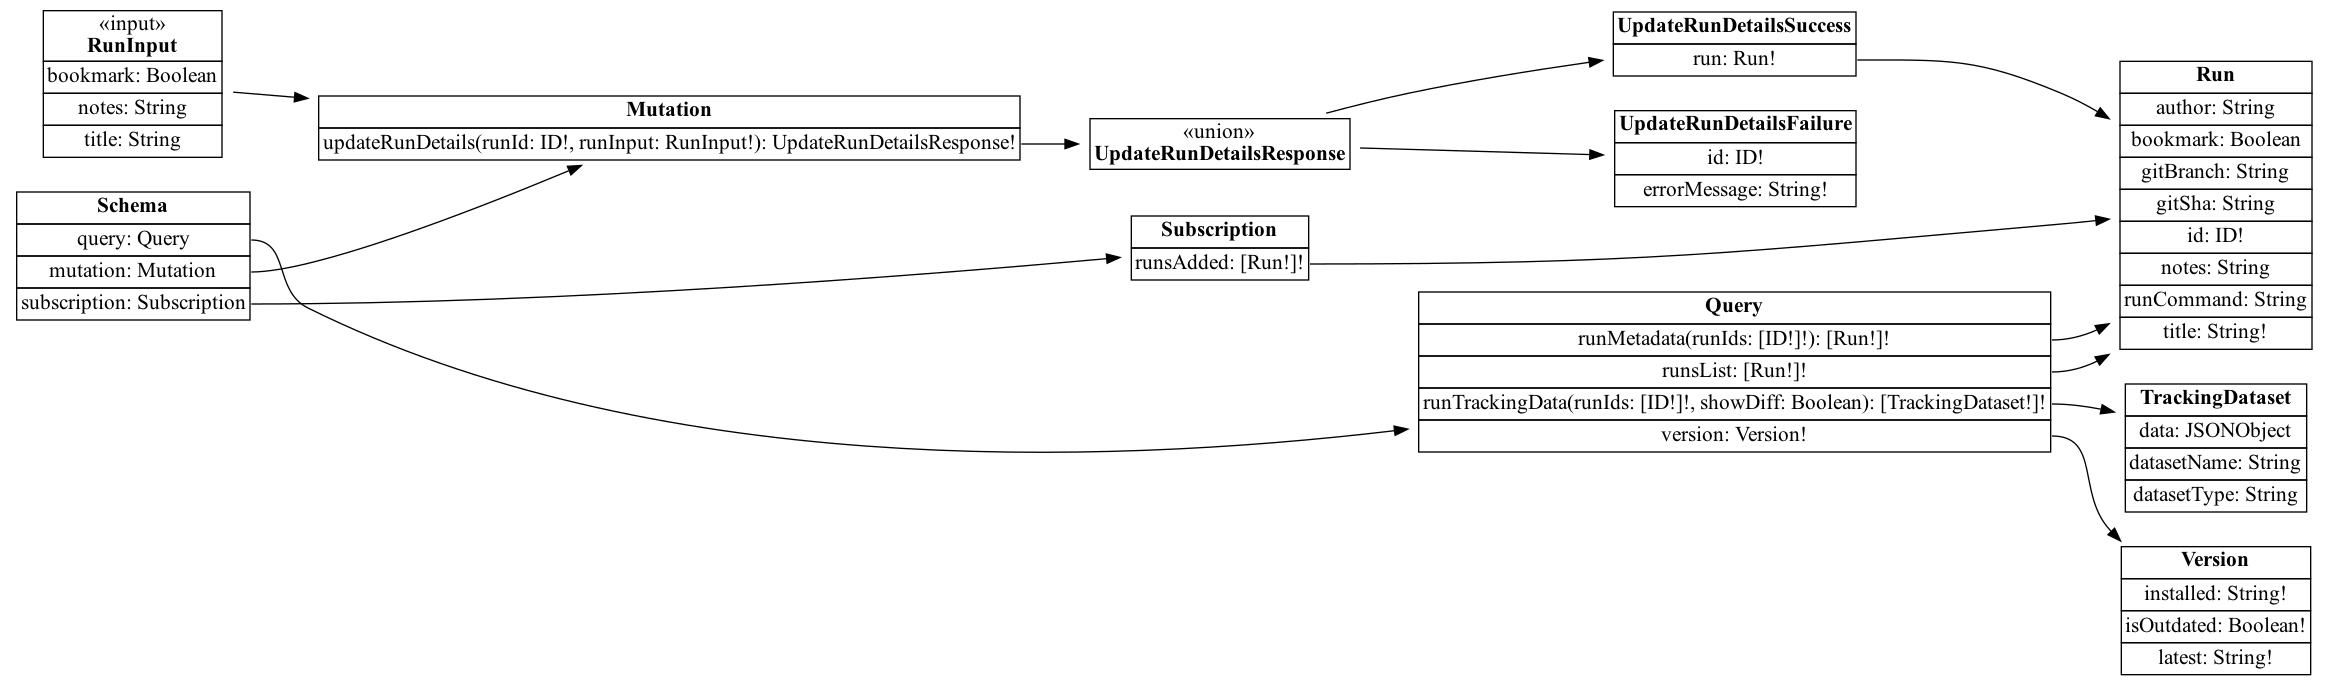
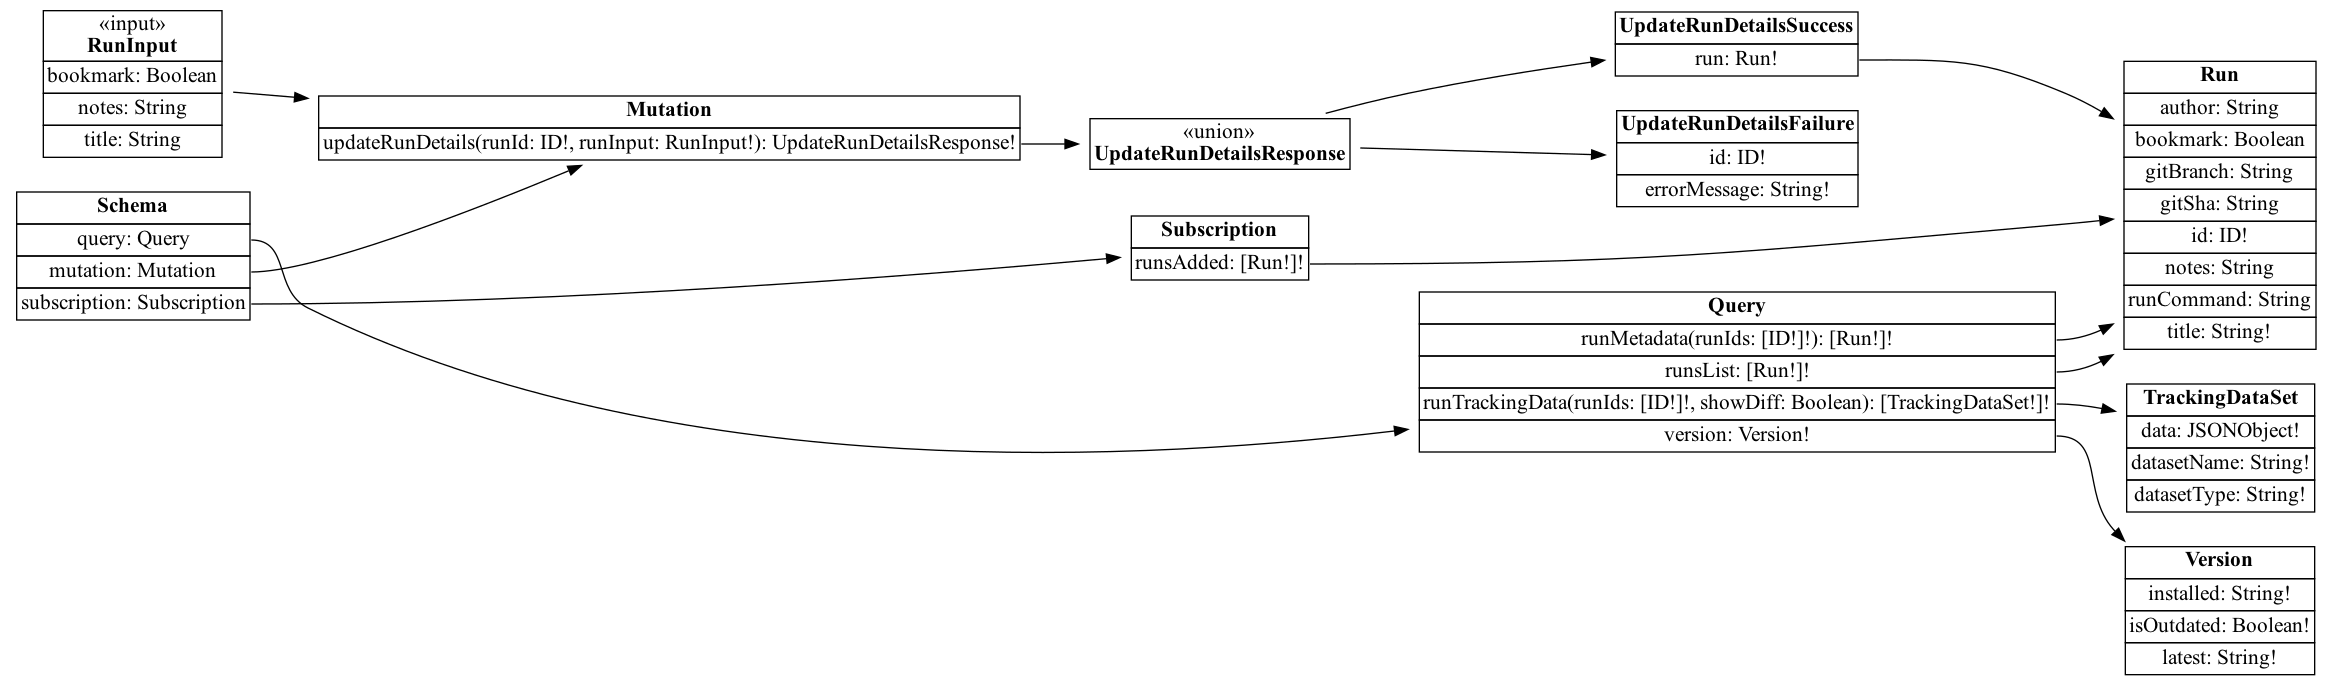
Rename to DataSet

diff --git a/src/apollo/mocks.js b/src/apollo/mocks.js
@@ -15,7 +15,7 @@ export const RunMock = Factory.define(({ sequence }) => {
   };
 });
 
-const TrackingDatasetMock = Factory.define(() => {
+const TrackingDataSetMock = Factory.define(() => {
   return {
     runId: faker.random.words(3),
     value: faker.datatype.number(),
@@ -27,7 +27,7 @@ export const TrackingDataMock = Factory.define(() => {
     datasetName: faker.random.words(2),
     datasetType: faker.random.words(2),
     data: {
-      [faker.random.words(1)]: TrackingDatasetMock.buildList(1),
+      [faker.random.words(1)]: TrackingDataSetMock.buildList(1),
     },
   };
 });

diff --git a/src/apollo/schema.js b/src/apollo/schema.js
@@ -23,7 +23,7 @@ const typeDefs = gql`
     runTrackingData(
       runIds: [ID!]!
       showDiff: Boolean = false
-    ): [TrackingDataset!]!
+    ): [TrackingDataSet!]!
   }
 
   type Run {
@@ -43,7 +43,7 @@ const typeDefs = gql`
     notes: String = null
   }
 
-  type TrackingDataset {
+  type TrackingDataSet {
     datasetName: String
     datasetType: String
     data: JSONObject

diff --git a/package/tests/test_api/test_graphql/test_schema.py b/package/tests/test_api/test_graphql/test_schema.py
@@ -10,7 +10,7 @@ from strawberry.printer import print_schema
 
 from kedro_viz.api.graphql import (
     JSONObject,
-    TrackingDataset,
+    TrackingDataSet,
     get_run_tracking_data,
     schema,
 )
@@ -24,7 +24,7 @@ class TestTrackingData:
             (
                 True,
                 [
-                    TrackingDataset(
+                    TrackingDataSet(
                         datasetName="new_metrics",
                         datasetType="kedro.extras.datasets.tracking.metrics_dataset.MetricsDataSet",
                         data=JSONObject(
@@ -50,7 +50,7 @@ class TestTrackingData:
             (
                 False,
                 [
-                    TrackingDataset(
+                    TrackingDataSet(
                         datasetName="new_metrics",
                         datasetType="kedro.extras.datasets.tracking.metrics_dataset.MetricsDataSet",
                         data=JSONObject(
@@ -88,7 +88,7 @@ class TestTrackingData:
             (
                 True,
                 [
-                    TrackingDataset(
+                    TrackingDataSet(
                         datasetName="new_metrics",
                         datasetType="kedro.extras.datasets.tracking.metrics_dataset.MetricsDataSet",
                         data=JSONObject(
@@ -107,7 +107,7 @@ class TestTrackingData:
             (
                 False,
                 [
-                    TrackingDataset(
+                    TrackingDataSet(
                         datasetName="new_metrics",
                         datasetType="kedro.extras.datasets.tracking.metrics_dataset.MetricsDataSet",
                         data=JSONObject({}),
@@ -141,7 +141,7 @@ class TestTrackingData:
             (
                 True,
                 [
-                    TrackingDataset(
+                    TrackingDataSet(
                         datasetName="new_metrics",
                         datasetType="kedro.extras.datasets.tracking.metrics_dataset.MetricsDataSet",
                         data=JSONObject({}),
@@ -151,7 +151,7 @@ class TestTrackingData:
             (
                 False,
                 [
-                    TrackingDataset(
+                    TrackingDataSet(
                         datasetName="new_metrics",
                         datasetType="kedro.extras.datasets.tracking.metrics_dataset.MetricsDataSet",
                         data=JSONObject({}),
@@ -199,7 +199,7 @@ class TestTrackingData:
         data_access_manager_with_runs.add_catalog(catalog)
 
         assert get_run_tracking_data([ID(example_run_ids[0])], False) == [
-            TrackingDataset(
+            TrackingDataSet(
                 datasetName="json_tracking",
                 datasetType="kedro.extras.datasets.tracking.json_dataset.JSONDataSet",
                 data=JSONObject({}),

diff --git a/package/kedro_viz/api/graphql/schema.py b/package/kedro_viz/api/graphql/schema.py
@@ -23,7 +23,7 @@ from .serializers import format_run, format_run_tracking_data, format_runs
 from .types import (
     Run,
     RunInput,
-    TrackingDataset,
+    TrackingDataSet,
     UpdateRunDetailsFailure,
     UpdateRunDetailsResponse,
     UpdateRunDetailsSuccess,
@@ -35,7 +35,7 @@ logger = logging.getLogger(__name__)
 
 def get_run_tracking_data(
     run_ids: List[ID], show_diff: Optional[bool] = False
-) -> List[TrackingDataset]:
+) -> List[TrackingDataSet]:
     # pylint: disable=protected-access,import-outside-toplevel
     """Get all tracking data for a list of runs. Tracking data contains the data from the
     tracking MetricsDataSet and JSONDataSet instances that have been logged
@@ -46,7 +46,7 @@ def get_run_tracking_data(
             data; else show all available tracking data
 
     Returns:
-        List of TrackingDatasets
+        List of TrackingDataSets
 
     """
     # TODO: this logic should be moved to the data access layer.
@@ -77,7 +77,7 @@ def get_run_tracking_data(
                 all_runs[run_id] = {}
                 logger.warning("`%s` could not be found", load_path)
 
-        tracking_dataset = TrackingDataset(
+        tracking_dataset = TrackingDataSet(
             datasetName=name,
             datasetType=f"{dataset.__class__.__module__}.{dataset.__class__.__qualname__}",
             data=format_run_tracking_data(all_runs, show_diff),
@@ -86,7 +86,6 @@ def get_run_tracking_data(
     return all_datasets
 
 
-# TODO: better names
 @strawberry.type
 class RunsQuery:
     @strawberry.field
@@ -113,8 +112,8 @@ class RunsQuery:
     @strawberry.field
     def run_tracking_data(
         self, run_ids: List[ID], show_diff: Optional[bool] = False
-    ) -> List[TrackingDataset]:
-        """Gets tracking dataset for specified run_ids."""
+    ) -> List[TrackingDataSet]:
+        """Gets tracking datasets for specified run_ids."""
         return get_run_tracking_data(run_ids, show_diff)
 
 
@@ -202,8 +201,6 @@ schema = strawberry.Schema(
 # TODO:
 # move tests? Pytest etc. # pytest and graphql
 
-# rename data -> artifacts??
-# Make enum for datasetGroups?
 # our data structures don't need to match query schema - keep structures flat and do nesting with query
 
 # fine to leave gets here, which should use data access manager

diff --git a/package/kedro_viz/api/graphql/types.py b/package/kedro_viz/api/graphql/types.py
@@ -40,12 +40,12 @@ class Run:
 
 
 @strawberry.type
-class TrackingDataset:
-    """TrackingDataset object to structure tracking data for a Run."""
+class TrackingDataSet:
+    """TrackingDataSet object to structure tracking data for a Run."""
 
-    data: Optional[JSONObject]
-    datasetName: Optional[str]
-    datasetType: Optional[str]
+    data: JSONObject
+    datasetName: str
+    datasetType: str  # TODO: change to enum
 
 
 @strawberry.input

diff --git a/package/kedro_viz/data_access/repositories/runs.py b/package/kedro_viz/data_access/repositories/runs.py
@@ -12,7 +12,7 @@ from kedro_viz.models.experiment_tracking import RunModel, UserRunDetailsModel
 logger = logging.getLogger(__name__)
 
 
-# TODO: DON'T RETURN NONE
+# TODO: better system for this. Decorator argument that returns iterable? Null class?
 def check_db_session(method: Callable) -> Callable:
     """Decorator that checks whether the repository instance can create a database session.
     If not, return None for all repository methods."""
